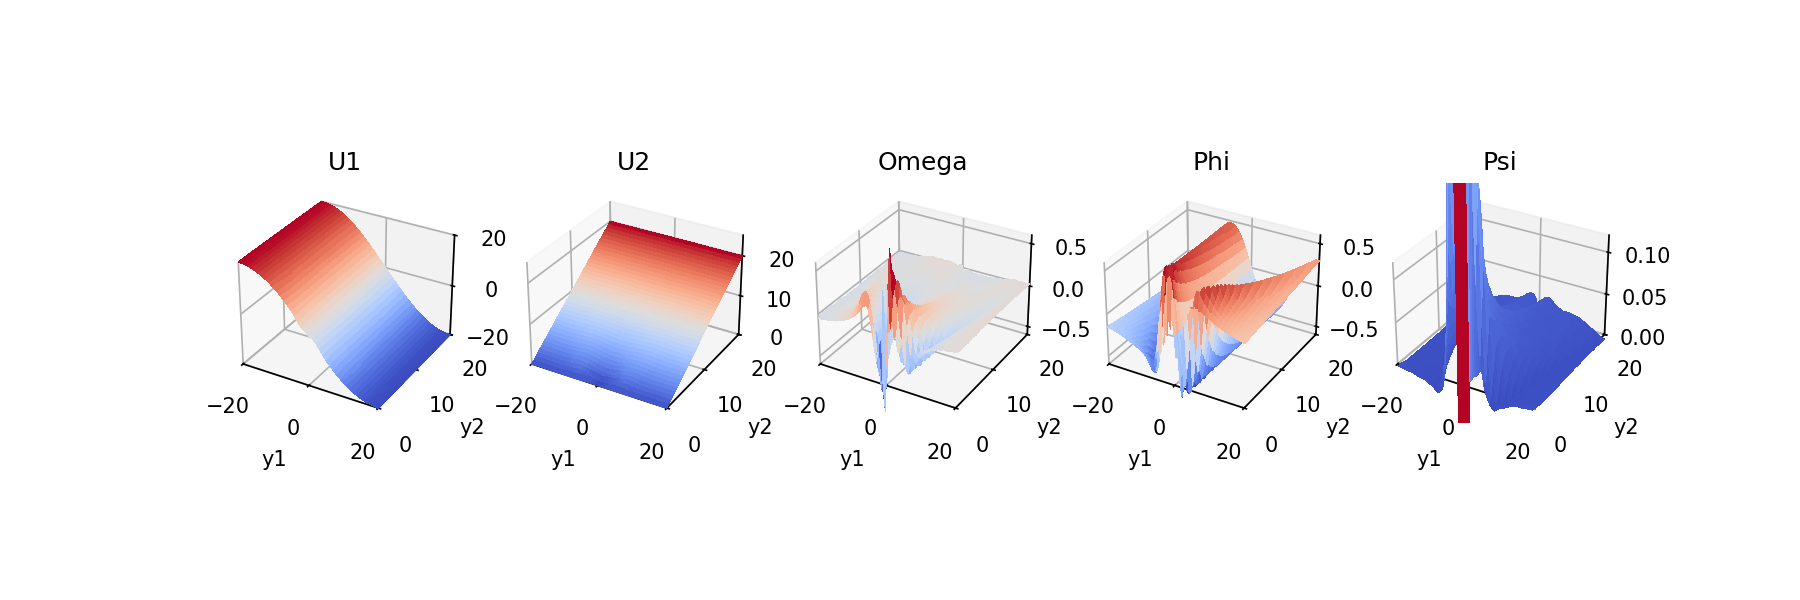
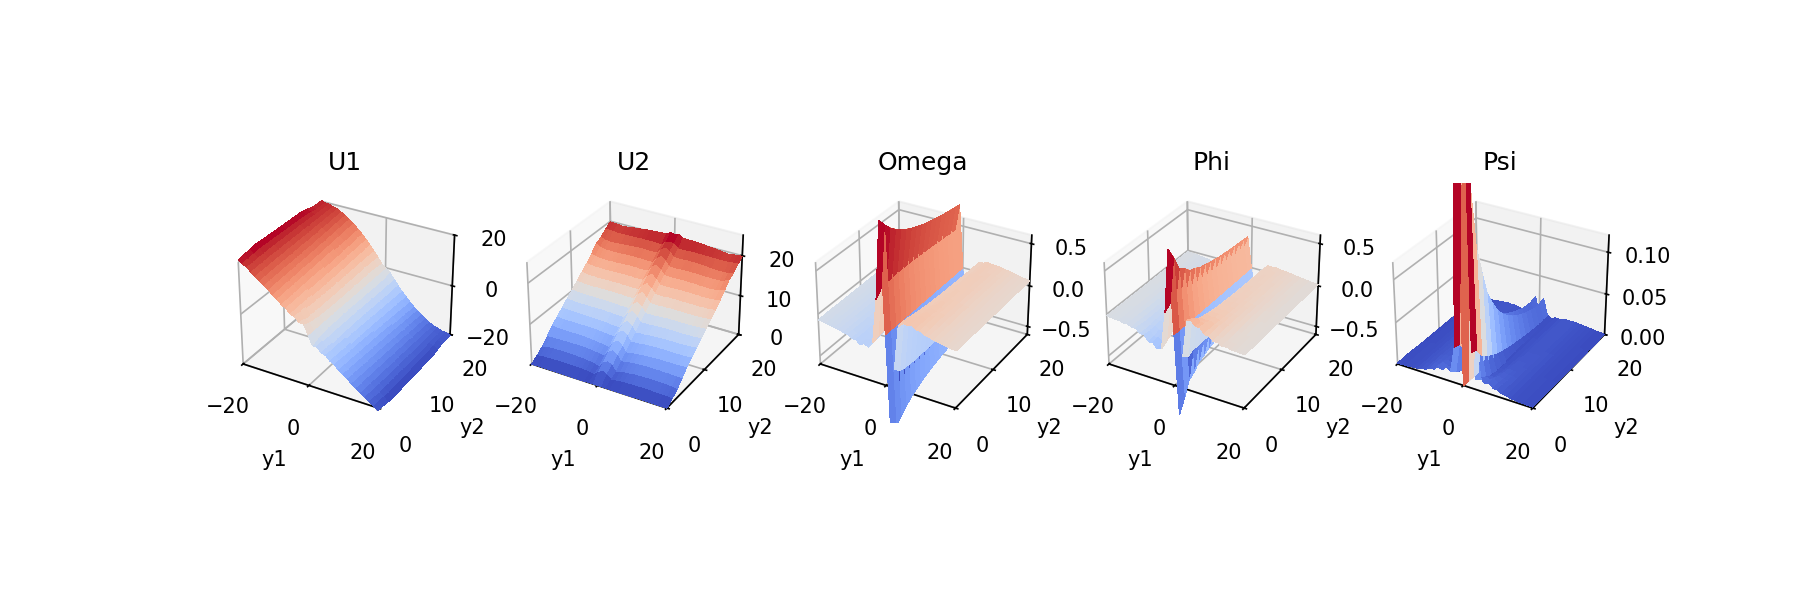
sol in progress...

diff --git a/search_boussinesq.py b/search_boussinesq.py
@@ -17,6 +17,8 @@ halfplane: (y1,y2) in [-20,20] x [0, 20]
 
 U2(y1,0) = 0
 d Omega(0,0) / d y1 = -1
+
+TODO: XXX NOT YET WORKING!
 """
 
 
@@ -52,7 +54,7 @@ def div(U1, U2, dy1, dy2):
     return dU1_dy1 + dU2_dy2
 
 
-def convert_to_reduced(U1, U2, Phi, Psi):
+def convert_to_reduced(U1, U2, Phi, Psi, dy1, dy2):
     """Convert full fields to reduced fields using symmetry."""
     # U1, Phi odd in y1
     # U2, Psi even in y1
@@ -63,6 +65,13 @@ def convert_to_reduced(U1, U2, Phi, Psi):
     # evens:
     U2_r = U2[U2.shape[0] // 2 :, 1:]  # remove y2=0 column
     Psi_r = Psi[Psi.shape[0] // 2 :, :]
+
+    # d Omega(0,0) / d y1 = -1
+    # => d_xy U1 = 1
+    b = U1_r[0, 1]
+    c = U1_r[0, 2]
+    a = (4 * b - c - 2 * dy1 * dy2) / 3
+    U1_r = U1_r.at[0, 0].set(a)
     return U1_r, U2_r, Phi_r, Psi_r
 
 
@@ -96,6 +105,7 @@ def convert_from_reduced(U1_r, U2_r, Phi_r, Psi_r, dy1, dy2):
     return U1, U2, Phi, Psi, Omega
 
 
+@jax.jit
 def residual(U, Y1, Y2):
     """Compute the residual of the discretized PDE."""
     lambda_, U1_r, U2_r, Phi_r, Psi_r = U
@@ -122,12 +132,14 @@ def residual(U, Y1, Y2):
     eqn2 = (2 + dy1_U1) * Phi + fac1 * dy1_Phi + fac2 * dy2_Phi + dy1_U2 * Psi
     eqn3 = (2 + dy2_U2) * Psi + fac1 * dy1_Psi + fac2 * dy2_Psi + dy2_U1 * Phi
     eqn4 = div(U1, U2, dy1, dy2)
+    eqn5 = dy1_Psi - dy2_Phi
 
     error_norm = (
         jnp.linalg.norm(eqn1)
         + jnp.linalg.norm(eqn2)
         + jnp.linalg.norm(eqn3)
         + jnp.linalg.norm(eqn4)
+        + jnp.linalg.norm(eqn5)
     )
     return error_norm
 
@@ -140,14 +152,17 @@ def search(
     U2_init,
     Phi_init,
     Psi_init,
-    num_iters=400,  # XXX 1000,
-    lr=0.01,  # XXX0.001,
+    num_iters=10000,  # XXX 1000,
+    lr=0.001,
 ):
     """Find the self-similar solution U(y) using Adam optimizer."""
 
-    U1_r, U2_r, Phi_r, Psi_r = convert_to_reduced(U1_init, U2_init, Phi_init, Psi_init)
     dy1 = Y1[1, 0] - Y1[0, 0]
     dy2 = Y2[0, 1] - Y2[0, 0]
+
+    U1_r, U2_r, Phi_r, Psi_r = convert_to_reduced(
+        U1_init, U2_init, Phi_init, Psi_init, dy1, dy2
+    )
     U = lambda_init, U1_r, U2_r, Phi_r, Psi_r
 
     optimizer = optax.adam(lr)
@@ -167,7 +182,7 @@ def search(
 def main():
     """Search and plot results."""
     # Grid
-    nhalf = 40  # XXX 200
+    nhalf = 16  # XXX 200
     y1lin = jnp.linspace(-20, 20, 2 * nhalf + 1)
     y2lin = jnp.linspace(0, 20, nhalf + 1)
     Y1, Y2 = jnp.meshgrid(y1lin, y2lin, indexing="ij")
